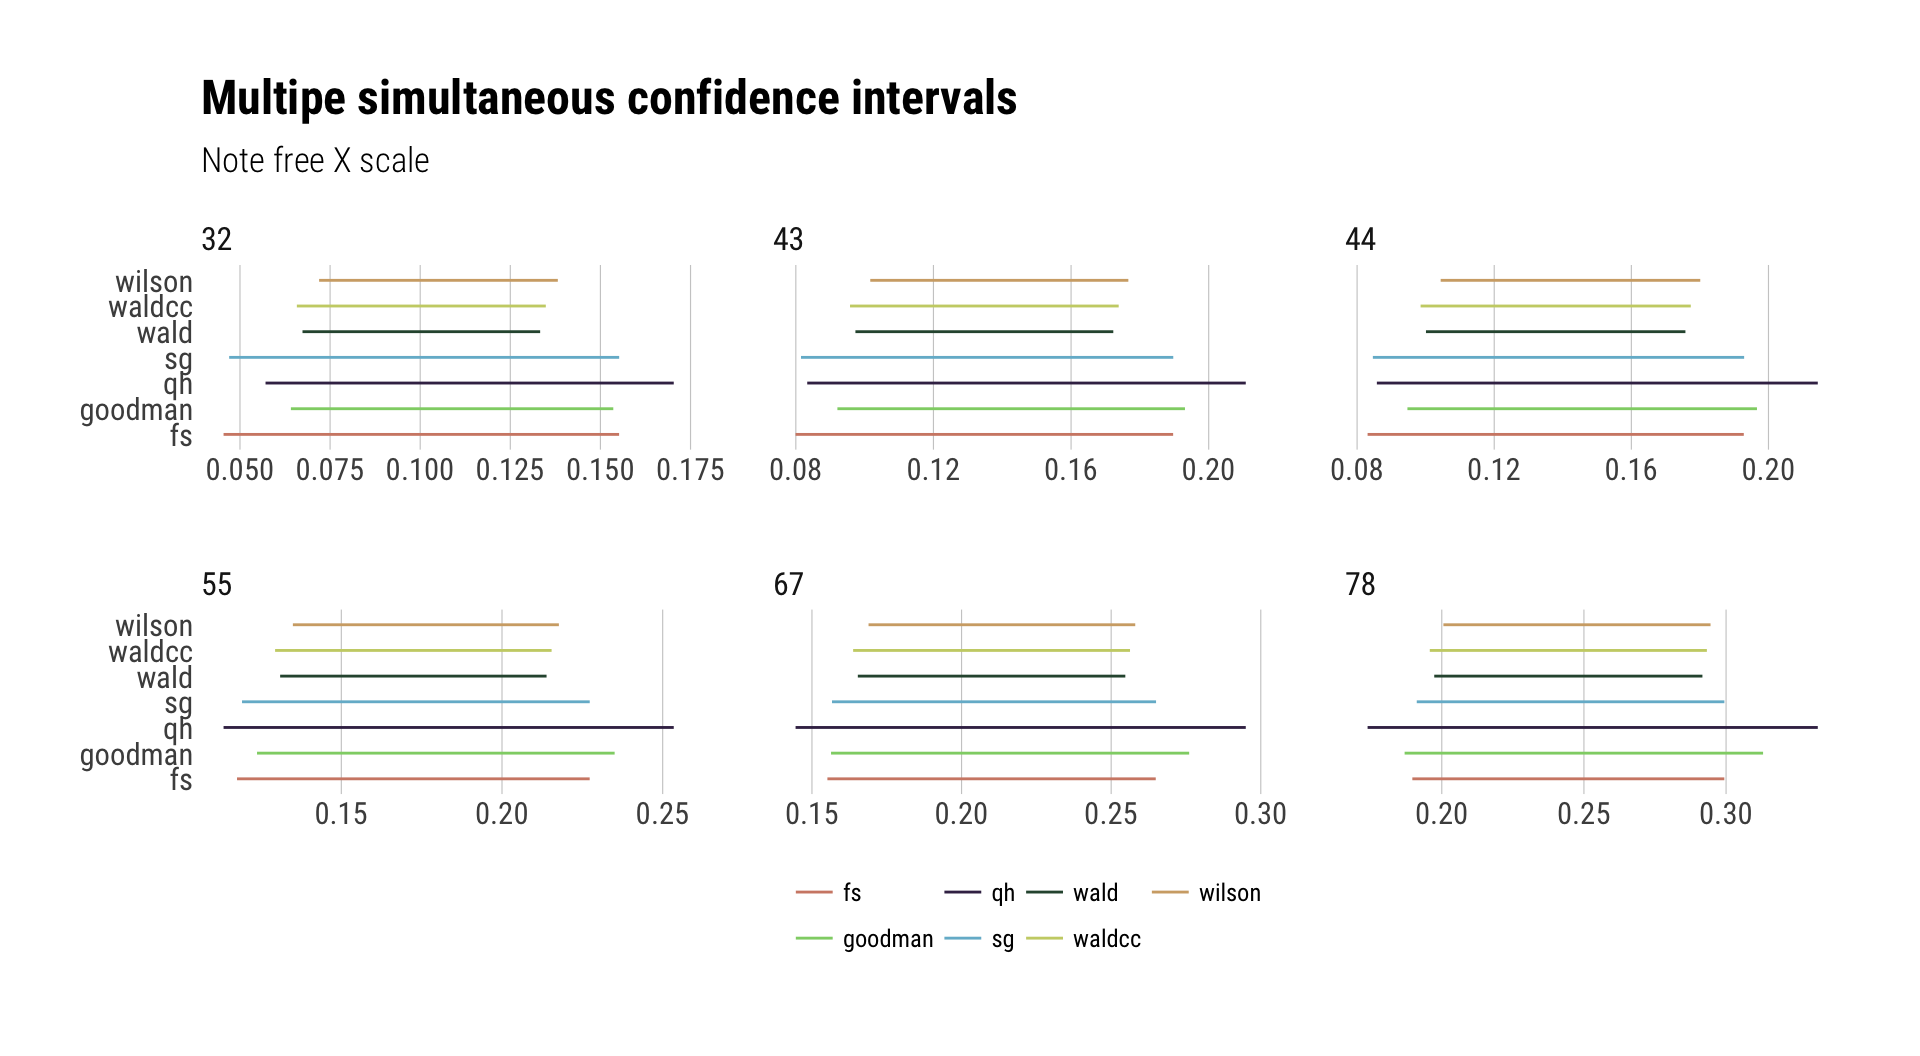
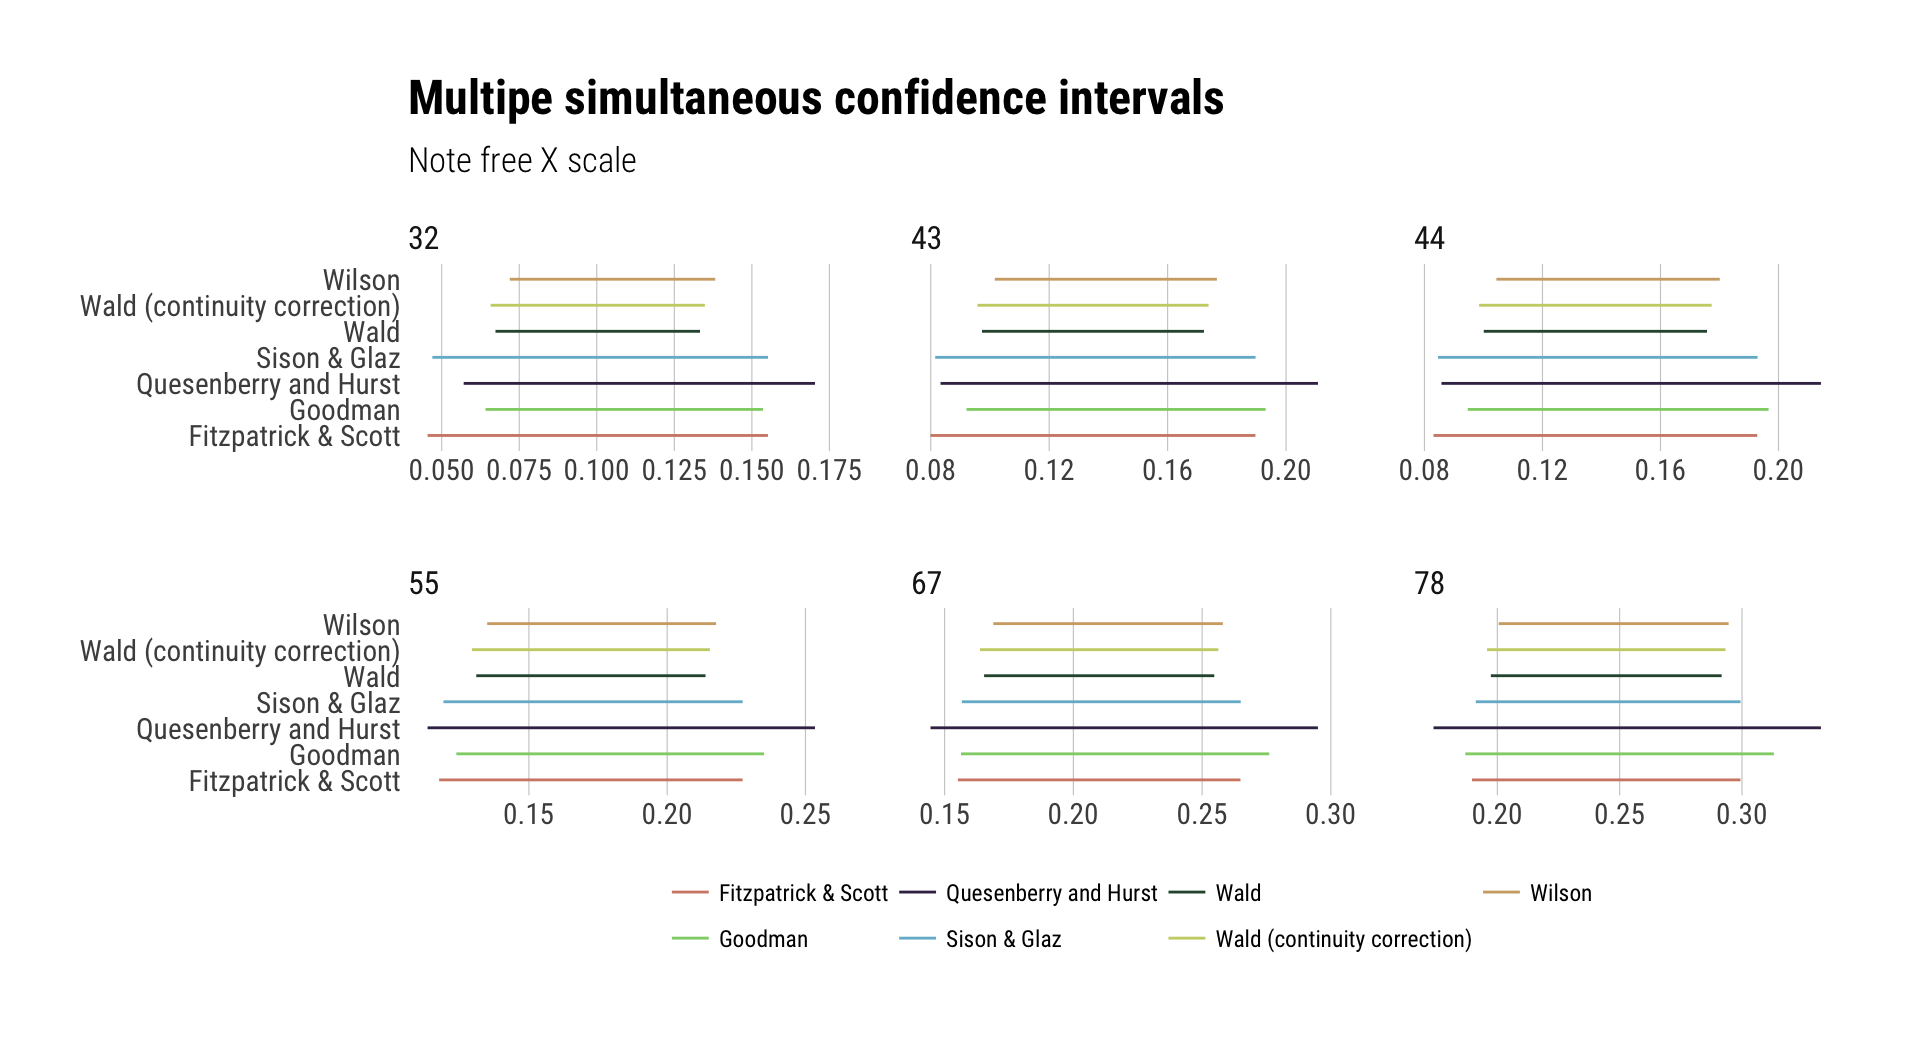
method name expander & README update

diff --git a/README.md b/README.md
@@ -1,5 +1,5 @@
 
-`scimple` : Tidy Simultaneous Confidence Interval for Multinomial Proportion
+`scimple` : Tidy Simultaneous Confidence Intervals for Multinomial Proportions
 
 This is a tidy version of the `CoinMinD` R package with some extra bits tossed in for good measure.
 
@@ -8,13 +8,15 @@ The following functions are implemented:
 -   `scimple_ci`: Calculate multiple simultaneous confidence intervals using selected methods (excluding Bayesian methods)
 -   `scimp_bmde`: Bayesian Multinomial Dirichlet Model (Equal Prior)
 -   `scimp_bmdu`: Bayesian Multinomial Dirichlet Model (Unequal Prior)
--   `scimp_fs`: Fitzpatrick and Scott Confidence Interval
+-   `scimp_fs`: Fitzpatrick & Scott Confidence Interval
 -   `scimp_goodman`: Goodman Confidence Interval
 -   `scimp_qh`: Quesenberry & Hurst Confidence Interval
 -   `scimp_sg`: Sison & Glaz Confidence Interval
 -   `scimp_wald`: Wald Confidence Interval
 -   `scimp_waldcc`: Wald Confidence Interval (with continuity correction)
 -   `scimp_wilson`: Wilson Confidence Interval
+
+There's also a handy named vector `scimple_short_to_long` which you can use to expand shorthand method names (e.g. "sg") to long (e.g. "Sison & Glaz").
 
 ### Installation
 
@@ -39,24 +41,25 @@ packageVersion("scimple")
 y <- c(44,55,43,32,67,78)
 z <- 0.05
 
-cis <- scimple_ci(y, z)
+scimple_ci(y, z) %>% 
+  mutate(method=scimple_short_to_long[method]) -> cis
 
 print(cis)
 ```
 
     ## # A tibble: 42 × 8
-    ##     method lower_limit upper_limit     adj_ll    adj_ul   volume inpmat alpha
-    ##      <chr>       <dbl>       <dbl>      <dbl>     <dbl>    <dbl>  <dbl> <dbl>
-    ## 1       fs  0.08306258   0.1927995 0.08306258 0.1927995 1.75e-06     44  0.05
-    ## 2       fs  0.11754534   0.2272823 0.11754534 0.2272823 1.75e-06     55  0.05
-    ## 3       fs  0.07992778   0.1896647 0.07992778 0.1896647 1.75e-06     43  0.05
-    ## 4       fs  0.04544502   0.1551819 0.04544502 0.1551819 1.75e-06     32  0.05
-    ## 5       fs  0.15516289   0.2648998 0.15516289 0.2648998 1.75e-06     67  0.05
-    ## 6       fs  0.18964565   0.2993826 0.18964565 0.2993826 1.75e-06     78  0.05
-    ## 7  goodman  0.09468368   0.1966413 0.09468368 0.1966413 1.55e-06     44  0.05
-    ## 8  goodman  0.12376893   0.2350489 0.12376893 0.2350489 1.55e-06     55  0.05
-    ## 9  goodman  0.09208527   0.1931040 0.09208527 0.1931040 1.55e-06     43  0.05
-    ## 10 goodman  0.06412671   0.1535697 0.06412671 0.1535697 1.55e-06     32  0.05
+    ##                 method lower_limit upper_limit     adj_ll    adj_ul   volume inpmat alpha
+    ##                  <chr>       <dbl>       <dbl>      <dbl>     <dbl>    <dbl>  <dbl> <dbl>
+    ## 1  Fitzpatrick & Scott  0.08306258   0.1927995 0.08306258 0.1927995 1.75e-06     44  0.05
+    ## 2  Fitzpatrick & Scott  0.11754534   0.2272823 0.11754534 0.2272823 1.75e-06     55  0.05
+    ## 3  Fitzpatrick & Scott  0.07992778   0.1896647 0.07992778 0.1896647 1.75e-06     43  0.05
+    ## 4  Fitzpatrick & Scott  0.04544502   0.1551819 0.04544502 0.1551819 1.75e-06     32  0.05
+    ## 5  Fitzpatrick & Scott  0.15516289   0.2648998 0.15516289 0.2648998 1.75e-06     67  0.05
+    ## 6  Fitzpatrick & Scott  0.18964565   0.2993826 0.18964565 0.2993826 1.75e-06     78  0.05
+    ## 7              Goodman  0.09468368   0.1966413 0.09468368 0.1966413 1.55e-06     44  0.05
+    ## 8              Goodman  0.12376893   0.2350489 0.12376893 0.2350489 1.55e-06     55  0.05
+    ## 9              Goodman  0.09208527   0.1931040 0.09208527 0.1931040 1.55e-06     43  0.05
+    ## 10             Goodman  0.06412671   0.1535697 0.06412671 0.1535697 1.55e-06     32  0.05
     ## # ... with 32 more rows
 
 ``` r
@@ -67,7 +70,7 @@ ggplot(cis) +
   labs(x=NULL, y=NULL, 
        title="Multipe simultaneous confidence intervals",
        subtitle="Note free X scale") +
-  theme_ipsum_rc(grid="X") +
+  theme_ipsum_rc(grid="X", base_size=11) +
   theme(legend.position="bottom")
 ```
 
@@ -82,7 +85,7 @@ library(testthat)
 date()
 ```
 
-    ## [1] "Fri Mar  3 14:42:51 2017"
+    ## [1] "Fri Mar  3 17:03:13 2017"
 
 ``` r
 test_dir("tests/")
